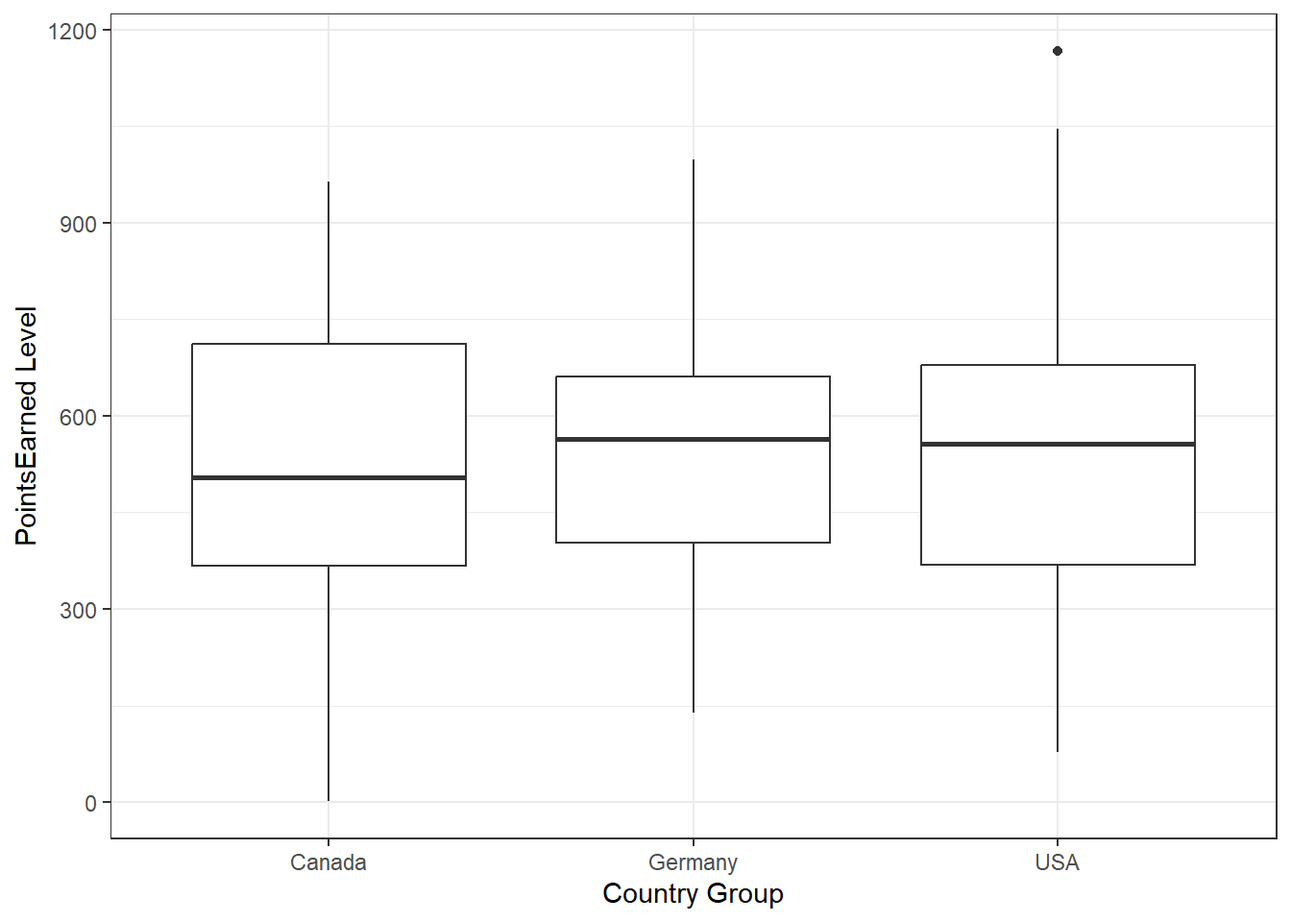
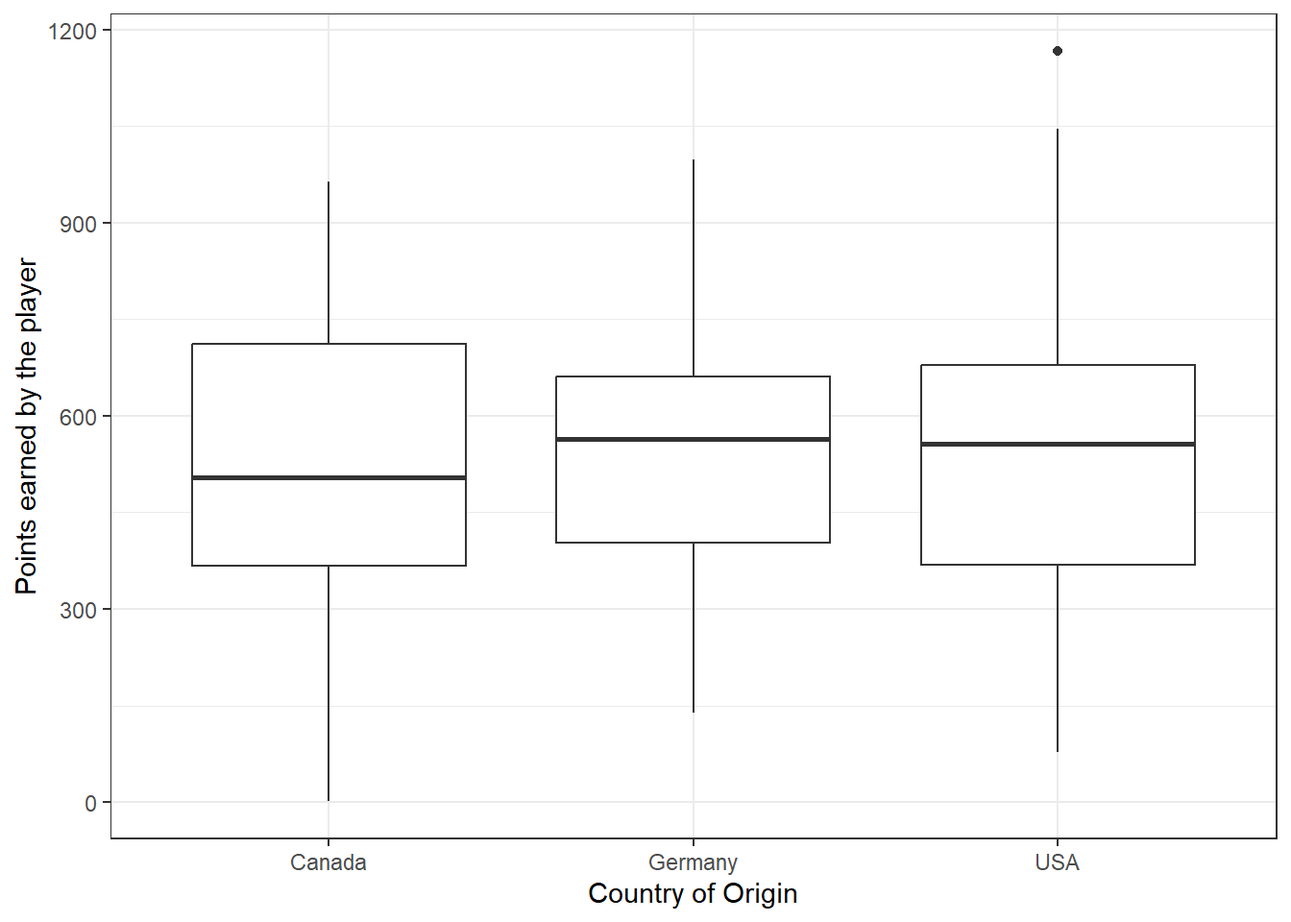
changes to Exercise 3

Changed region(s): [[0.0, 0.2812, 0.0312, 0.6562], [0.4688, 0.9375, 0.625, 1.0]]

diff --git a/docs/data-excercise/synthetic-data.html b/docs/data-excercise/synthetic-data.html
@@ -200,17 +200,28 @@ pre > code.sourceCode > span > a:first-child::before { text-decoration: underlin
 </header>
 
 
-<p>Placeholder file for the future R coding exercise.</p>
 <div style="page-break-after: always;"></div>
-<section id="data-aquisition" class="level1" data-number="1">
-<h1 data-number="1"><span class="header-section-number">1</span> Data Aquisition</h1>
-<p>In this section we will set the seed so that we can create reproducible data, and set the number of observations to 180.</p>
+<section id="introduction" class="level1" data-number="1">
+<h1 data-number="1"><span class="header-section-number">1</span> Introduction</h1>
+<p>In this excercise, I have chosen to create synthetic data and perform analysis based on it. I will be creating a dataset related to an online game “Soccer 101”.</p>
+<p>The dataset will contain information related to the country of origin of the player, age, play-time, points earned throughout the game, and the date when the online game account was created.The daataset will also include information on the Gender of the player and an indicator variable that explains whether the player has been nominated for the player of the year award or not.</p>
+<div style="page-break-after: always;"></div>
+</section>
+<section id="data-generation" class="level1" data-number="2">
+<h1 data-number="2"><span class="header-section-number">2</span> Data Generation</h1>
+<section id="setting-the-seeds-and-observation-number" class="level2" data-number="2.1">
+<h2 data-number="2.1" class="anchored" data-anchor-id="setting-the-seeds-and-observation-number"><span class="header-section-number">2.1</span> Setting the seeds and observation number</h2>
+<p>In this section we will create the baseline for generating our synthetic data. We will set the seed so that we can create reproducible data, and we will also set the number of observations to 180.</p>
 <div class="cell">
-<div class="sourceCode cell-code" id="cb1"><pre class="sourceCode r code-with-copy"><code class="sourceCode r"><span id="cb1-1"><a href="#cb1-1" aria-hidden="true" tabindex="-1"></a><span class="co"># Set a seed for reproducibility</span></span>
+<div class="sourceCode cell-code" id="cb1"><pre class="sourceCode r code-with-copy"><code class="sourceCode r"><span id="cb1-1"><a href="#cb1-1" aria-hidden="true" tabindex="-1"></a><span class="co"># Setting a seed for reproducibility of data</span></span>
 <span id="cb1-2"><a href="#cb1-2" aria-hidden="true" tabindex="-1"></a><span class="fu">set.seed</span>(<span class="dv">324</span>)</span>
-<span id="cb1-3"><a href="#cb1-3" aria-hidden="true" tabindex="-1"></a><span class="co"># Define the number of observations (patients) to generate</span></span>
+<span id="cb1-3"><a href="#cb1-3" aria-hidden="true" tabindex="-1"></a><span class="co"># Definining the number of observations (players) to generate</span></span>
 <span id="cb1-4"><a href="#cb1-4" aria-hidden="true" tabindex="-1"></a>n_obs <span class="ot">&lt;-</span> <span class="dv">180</span></span></code><button title="Copy to Clipboard" class="code-copy-button"><i class="bi"></i></button></pre></div>
 </div>
+<div style="page-break-after: always;"></div>
+</section>
+<section id="creating-an-empty-dataset" class="level2" data-number="2.2">
+<h2 data-number="2.2" class="anchored" data-anchor-id="creating-an-empty-dataset"><span class="header-section-number">2.2</span> Creating an empty Dataset</h2>
 <p>We will then create an empty dataset with just variable names and their data structure. We will make sure that every variable has the same number of obserations.</p>
 <div class="cell">
 <div class="sourceCode cell-code" id="cb2"><pre class="sourceCode r code-with-copy"><code class="sourceCode r"><span id="cb2-1"><a href="#cb2-1" aria-hidden="true" tabindex="-1"></a><span class="co"># Create an empty data frame with placeholders for variables</span></span>
@@ -228,64 +239,67 @@ pre > code.sourceCode > span > a:first-child::before { text-decoration: underlin
 <p>We can confirm that the new dataset “data” is formed successfully.</p>
 <div style="page-break-after: always;"></div>
 </section>
-<section id="data-cleaning" class="level1" data-number="2">
-<h1 data-number="2"><span class="header-section-number">2</span> Data Cleaning</h1>
-<p>Next, we will create the synthetic the data required for our excercise.</p>
+</section>
+<section id="data-cleaning" class="level1" data-number="3">
+<h1 data-number="3"><span class="header-section-number">3</span> Data Cleaning</h1>
+<p>Next, we will create the synthetic the data required for our excercise. We will try to control how the data is formed while we generate these data. All the variables will be generated with randomness except for: Points Earned <em>(This variable will be formed as a linear function of the variable play time as higher play time usually results in more control over the game and hence higher points)</em></p>
+<p>We will also make sure that the variable “Player of the Year (POTY) Nominee is independent of country of origin of the player as it makes no sense.</p>
 <div class="cell">
-<div class="sourceCode cell-code" id="cb3"><pre class="sourceCode r code-with-copy"><code class="sourceCode r"><span id="cb3-1"><a href="#cb3-1" aria-hidden="true" tabindex="-1"></a><span class="co"># Variable 1: Patient ID</span></span>
+<div class="sourceCode cell-code" id="cb3"><pre class="sourceCode r code-with-copy"><code class="sourceCode r"><span id="cb3-1"><a href="#cb3-1" aria-hidden="true" tabindex="-1"></a><span class="co"># Variable 1: userID (represents the online userID of the player)</span></span>
 <span id="cb3-2"><a href="#cb3-2" aria-hidden="true" tabindex="-1"></a>data<span class="sc">$</span>userID <span class="ot">&lt;-</span> <span class="dv">1</span><span class="sc">:</span>n_obs</span>
 <span id="cb3-3"><a href="#cb3-3" aria-hidden="true" tabindex="-1"></a></span>
-<span id="cb3-4"><a href="#cb3-4" aria-hidden="true" tabindex="-1"></a><span class="co"># Variable 2: Age (numeric variable)</span></span>
+<span id="cb3-4"><a href="#cb3-4" aria-hidden="true" tabindex="-1"></a><span class="co"># Variable 2: Age of the player (coded as numeric variable)</span></span>
 <span id="cb3-5"><a href="#cb3-5" aria-hidden="true" tabindex="-1"></a>data<span class="sc">$</span>Age <span class="ot">&lt;-</span> <span class="fu">round</span>(<span class="fu">rnorm</span>(n_obs, <span class="at">mean =</span> <span class="dv">23</span>, <span class="at">sd =</span> <span class="dv">5</span>), <span class="dv">1</span>)</span>
 <span id="cb3-6"><a href="#cb3-6" aria-hidden="true" tabindex="-1"></a></span>
-<span id="cb3-7"><a href="#cb3-7" aria-hidden="true" tabindex="-1"></a><span class="co"># Variable 3: Gender (categorical variable)</span></span>
+<span id="cb3-7"><a href="#cb3-7" aria-hidden="true" tabindex="-1"></a><span class="co"># Variable 3: Gender of the player (coded as categorical variable)</span></span>
 <span id="cb3-8"><a href="#cb3-8" aria-hidden="true" tabindex="-1"></a>data<span class="sc">$</span>Gender <span class="ot">&lt;-</span> purrr<span class="sc">::</span><span class="fu">map_chr</span>(<span class="fu">sample</span>(<span class="fu">c</span>(<span class="st">"Male"</span>, <span class="st">"Female"</span>), n_obs, <span class="at">replace =</span> <span class="cn">TRUE</span>), as.character)</span>
 <span id="cb3-9"><a href="#cb3-9" aria-hidden="true" tabindex="-1"></a></span>
-<span id="cb3-10"><a href="#cb3-10" aria-hidden="true" tabindex="-1"></a><span class="co"># Variable 4: Country Group (categorical variable)</span></span>
+<span id="cb3-10"><a href="#cb3-10" aria-hidden="true" tabindex="-1"></a><span class="co"># Variable 4: Country of origin (coded as categorical variable)</span></span>
 <span id="cb3-11"><a href="#cb3-11" aria-hidden="true" tabindex="-1"></a>data<span class="sc">$</span>Country <span class="ot">&lt;-</span> purrr<span class="sc">::</span><span class="fu">map_chr</span>(<span class="fu">sample</span>(<span class="fu">c</span>(<span class="st">"USA"</span>, <span class="st">"Canada"</span>, <span class="st">"Germany"</span>), n_obs, <span class="at">replace =</span> <span class="cn">TRUE</span>), as.character)</span>
 <span id="cb3-12"><a href="#cb3-12" aria-hidden="true" tabindex="-1"></a></span>
-<span id="cb3-13"><a href="#cb3-13" aria-hidden="true" tabindex="-1"></a><span class="co"># Variable 5: Date of Enrollment (date variable)</span></span>
+<span id="cb3-13"><a href="#cb3-13" aria-hidden="true" tabindex="-1"></a><span class="co"># Variable 5: Date of Installation (coded as date variable)</span></span>
 <span id="cb3-14"><a href="#cb3-14" aria-hidden="true" tabindex="-1"></a>data<span class="sc">$</span>InstallationDate <span class="ot">&lt;-</span> lubridate<span class="sc">::</span><span class="fu">as_date</span>(<span class="fu">sample</span>(<span class="fu">seq</span>(<span class="at">from =</span> lubridate<span class="sc">::</span><span class="fu">as_date</span>(<span class="st">"2022-01-01"</span>), <span class="at">to =</span> lubridate<span class="sc">::</span><span class="fu">as_date</span>(<span class="st">"2024-12-31"</span>), <span class="at">by =</span> <span class="st">"days"</span>), n_obs, <span class="at">replace =</span> <span class="cn">TRUE</span>))</span>
 <span id="cb3-15"><a href="#cb3-15" aria-hidden="true" tabindex="-1"></a></span>
-<span id="cb3-16"><a href="#cb3-16" aria-hidden="true" tabindex="-1"></a><span class="co"># Variable 6: Play time (numeric variable)</span></span>
+<span id="cb3-16"><a href="#cb3-16" aria-hidden="true" tabindex="-1"></a><span class="co"># Variable 6: PlayTime (coded as numeric variable)</span></span>
 <span id="cb3-17"><a href="#cb3-17" aria-hidden="true" tabindex="-1"></a>data<span class="sc">$</span>PlayTime <span class="ot">&lt;-</span> <span class="fu">round</span>(<span class="fu">runif</span>(n_obs, <span class="at">min =</span> <span class="dv">40</span>, <span class="at">max =</span> <span class="dv">160</span>), <span class="dv">1</span>)</span>
 <span id="cb3-18"><a href="#cb3-18" aria-hidden="true" tabindex="-1"></a></span>
-<span id="cb3-19"><a href="#cb3-19" aria-hidden="true" tabindex="-1"></a><span class="co"># Variable 7: PointsEarned  (numeric variable)</span></span>
-<span id="cb3-20"><a href="#cb3-20" aria-hidden="true" tabindex="-1"></a><span class="co"># PointsEarned is dependent on PlayTime</span></span>
-<span id="cb3-21"><a href="#cb3-21" aria-hidden="true" tabindex="-1"></a><span class="co"># Define coefficients for the linear function</span></span>
-<span id="cb3-22"><a href="#cb3-22" aria-hidden="true" tabindex="-1"></a>beta_0 <span class="ot">&lt;-</span> <span class="dv">50</span>  <span class="co"># Intercept</span></span>
-<span id="cb3-23"><a href="#cb3-23" aria-hidden="true" tabindex="-1"></a>beta_1 <span class="ot">&lt;-</span> <span class="dv">5</span>   <span class="co"># Slope</span></span>
+<span id="cb3-19"><a href="#cb3-19" aria-hidden="true" tabindex="-1"></a><span class="co"># Variable 7: PointsEarned  ( coded as numeric variable)</span></span>
+<span id="cb3-20"><a href="#cb3-20" aria-hidden="true" tabindex="-1"></a><span class="co"># PointsEarned will be kept dependent on PlayTime through a linear function</span></span>
+<span id="cb3-21"><a href="#cb3-21" aria-hidden="true" tabindex="-1"></a></span>
+<span id="cb3-22"><a href="#cb3-22" aria-hidden="true" tabindex="-1"></a>beta_0 <span class="ot">&lt;-</span> <span class="dv">50</span>  <span class="co"># Defining coefficient for the linear function (Intercept)</span></span>
+<span id="cb3-23"><a href="#cb3-23" aria-hidden="true" tabindex="-1"></a>beta_1 <span class="ot">&lt;-</span> <span class="dv">5</span>   <span class="co"># Defining coefficient for the linear function (Slope)</span></span>
 <span id="cb3-24"><a href="#cb3-24" aria-hidden="true" tabindex="-1"></a></span>
-<span id="cb3-25"><a href="#cb3-25" aria-hidden="true" tabindex="-1"></a><span class="co"># Generate PointsEarned based on PlayTime with some randomness</span></span>
+<span id="cb3-25"><a href="#cb3-25" aria-hidden="true" tabindex="-1"></a><span class="co"># Generating PointsEarned based on PlayTime with some randomness</span></span>
 <span id="cb3-26"><a href="#cb3-26" aria-hidden="true" tabindex="-1"></a>data<span class="sc">$</span>PointsEarned <span class="ot">&lt;-</span> <span class="fu">round</span>(beta_0 <span class="sc">+</span> beta_1 <span class="sc">*</span> data<span class="sc">$</span>PlayTime <span class="sc">+</span> <span class="fu">rnorm</span>(<span class="fu">nrow</span>(data), <span class="at">mean =</span> <span class="dv">0</span>, <span class="at">sd =</span> <span class="dv">130</span>), <span class="dv">1</span>)</span>
 <span id="cb3-27"><a href="#cb3-27" aria-hidden="true" tabindex="-1"></a></span>
 <span id="cb3-28"><a href="#cb3-28" aria-hidden="true" tabindex="-1"></a></span>
 <span id="cb3-29"><a href="#cb3-29" aria-hidden="true" tabindex="-1"></a><span class="co"># Variable 8: Player of the Year Nominee (binary variable, 0 = No, 1 = Yes)</span></span>
-<span id="cb3-30"><a href="#cb3-30" aria-hidden="true" tabindex="-1"></a><span class="co"># Option 1: Player of the Year Nominees are independent of Country</span></span>
+<span id="cb3-30"><a href="#cb3-30" aria-hidden="true" tabindex="-1"></a><span class="co"># Option 1: Player of the Year Nominees are independent of Country of origin</span></span>
 <span id="cb3-31"><a href="#cb3-31" aria-hidden="true" tabindex="-1"></a>data<span class="sc">$</span>POTY <span class="ot">&lt;-</span> purrr<span class="sc">::</span><span class="fu">map_int</span>(<span class="fu">sample</span>(<span class="dv">0</span><span class="sc">:</span><span class="dv">1</span>, n_obs, <span class="at">replace =</span> <span class="cn">TRUE</span>, <span class="at">prob =</span> <span class="fu">c</span>(<span class="fl">0.8</span>, <span class="fl">0.2</span>)), as.integer)</span></code><button title="Copy to Clipboard" class="code-copy-button"><i class="bi"></i></button></pre></div>
 </div>
-<section id="saving-new-dataset" class="level2" data-number="2.1">
-<h2 data-number="2.1" class="anchored" data-anchor-id="saving-new-dataset"><span class="header-section-number">2.1</span> Saving new dataset:</h2>
+<div style="page-break-after: always;"></div>
+</section>
+<section id="saving-new-dataset" class="level1" data-number="4">
+<h1 data-number="4"><span class="header-section-number">4</span> Saving new dataset:</h1>
 <div class="cell">
-<div class="sourceCode cell-code" id="cb4"><pre class="sourceCode r code-with-copy"><code class="sourceCode r"><span id="cb4-1"><a href="#cb4-1" aria-hidden="true" tabindex="-1"></a><span class="co"># Save the simulated data to a CSV and Rds file</span></span>
+<div class="sourceCode cell-code" id="cb4"><pre class="sourceCode r code-with-copy"><code class="sourceCode r"><span id="cb4-1"><a href="#cb4-1" aria-hidden="true" tabindex="-1"></a><span class="co"># Saving the simulated data to a CSV file</span></span>
 <span id="cb4-2"><a href="#cb4-2" aria-hidden="true" tabindex="-1"></a><span class="fu">write.csv</span>(data, <span class="fu">here</span>(<span class="st">"data-excercise"</span>,<span class="st">"data"</span>,<span class="st">"data.csv"</span>), <span class="at">row.names =</span> <span class="cn">FALSE</span>)</span>
-<span id="cb4-3"><a href="#cb4-3" aria-hidden="true" tabindex="-1"></a><span class="co"># if we wanted an RDS version</span></span>
+<span id="cb4-3"><a href="#cb4-3" aria-hidden="true" tabindex="-1"></a><span class="co"># Saving as Rds is optional and we wont trigger that option for now.</span></span>
 <span id="cb4-4"><a href="#cb4-4" aria-hidden="true" tabindex="-1"></a><span class="co">#saveRDS(data, here("data-excercise", "data","data.Rds"))</span></span></code><button title="Copy to Clipboard" class="code-copy-button"><i class="bi"></i></button></pre></div>
 </div>
 <div style="page-break-after: always;"></div>
 </section>
-</section>
-<section id="data-visualization" class="level1" data-number="3">
-<h1 data-number="3"><span class="header-section-number">3</span> Data Visualization</h1>
+<section id="data-visualization" class="level1" data-number="5">
+<h1 data-number="5"><span class="header-section-number">5</span> Data Visualization</h1>
 <p>We will now visualize the data using multiple figures.</p>
-<section id="figure1-scatterplot-of-life-expectancy-vs-infant-mortality" class="level2" data-number="3.1">
-<h2 data-number="3.1" class="anchored" data-anchor-id="figure1-scatterplot-of-life-expectancy-vs-infant-mortality"><span class="header-section-number">3.1</span> Figure1: Scatterplot of Life Expectancy vs Infant Mortality</h2>
-<p>We observe that the life expectancy is going down as the infant mortality increases for the country, this could be because the health infrastructure that is unable to provide support to infant population might also not be able to support the general population. The streaks of data represent individual countries, most of the streaks seem to be heading downwards, and the overall tendency is also downwards implying negative correlation.</p>
+<section id="figure1-boxplot-of-country-vs-points-earned" class="level2" data-number="5.1">
+<h2 data-number="5.1" class="anchored" data-anchor-id="figure1-boxplot-of-country-vs-points-earned"><span class="header-section-number">5.1</span> Figure1: Boxplot of Country vs Points Earned</h2>
+<p>We observe that there is no statistical difference across countries for points earned as we created these variables with randoness. All countries seem to have the mean in the same range with different variation within the data.</p>
 <div class="cell">
 <div class="sourceCode cell-code" id="cb5"><pre class="sourceCode r code-with-copy"><code class="sourceCode r"><span id="cb5-1"><a href="#cb5-1" aria-hidden="true" tabindex="-1"></a><span class="co"># ggplot2 boxplot for PointsEarned by Country group</span></span>
 <span id="cb5-2"><a href="#cb5-2" aria-hidden="true" tabindex="-1"></a><span class="fu">ggplot</span>(data, <span class="fu">aes</span>(<span class="at">x =</span> Country, <span class="at">y =</span> PointsEarned)) <span class="sc">+</span></span>
 <span id="cb5-3"><a href="#cb5-3" aria-hidden="true" tabindex="-1"></a>  <span class="fu">geom_boxplot</span>() <span class="sc">+</span></span>
-<span id="cb5-4"><a href="#cb5-4" aria-hidden="true" tabindex="-1"></a>  <span class="fu">labs</span>(<span class="at">x =</span> <span class="st">"Country Group"</span>, <span class="at">y =</span> <span class="st">"PointsEarned Level"</span>) <span class="sc">+</span></span>
+<span id="cb5-4"><a href="#cb5-4" aria-hidden="true" tabindex="-1"></a>  <span class="fu">labs</span>(<span class="at">x =</span> <span class="st">"Country of Origin"</span>, <span class="at">y =</span> <span class="st">"Points earned by the player"</span>) <span class="sc">+</span></span>
 <span id="cb5-5"><a href="#cb5-5" aria-hidden="true" tabindex="-1"></a>  <span class="fu">theme_bw</span>()</span></code><button title="Copy to Clipboard" class="code-copy-button"><i class="bi"></i></button></pre></div>
 <div class="cell-output-display">
 <div>
@@ -295,11 +309,15 @@ pre > code.sourceCode > span > a:first-child::before { text-decoration: underlin
 </div>
 </div>
 </div>
+</section>
+<section id="figure2-boxplot-of-gender-vs-points-earned" class="level2" data-number="5.2">
+<h2 data-number="5.2" class="anchored" data-anchor-id="figure2-boxplot-of-gender-vs-points-earned"><span class="header-section-number">5.2</span> Figure2: Boxplot of Gender vs Points Earned</h2>
+<p>We can again observe that there is no statistical difference across Gender for points earned as we created these variables with randoness as well. Both male and female seem to have the mean in the same range with different variation within the group.</p>
 <div class="cell">
 <div class="sourceCode cell-code" id="cb6"><pre class="sourceCode r code-with-copy"><code class="sourceCode r"><span id="cb6-1"><a href="#cb6-1" aria-hidden="true" tabindex="-1"></a><span class="co"># ggplot2 boxplot for PointsEarned by Country group</span></span>
 <span id="cb6-2"><a href="#cb6-2" aria-hidden="true" tabindex="-1"></a><span class="fu">ggplot</span>(data, <span class="fu">aes</span>(<span class="at">x =</span> Gender, <span class="at">y =</span> PointsEarned)) <span class="sc">+</span></span>
 <span id="cb6-3"><a href="#cb6-3" aria-hidden="true" tabindex="-1"></a>  <span class="fu">geom_boxplot</span>() <span class="sc">+</span></span>
-<span id="cb6-4"><a href="#cb6-4" aria-hidden="true" tabindex="-1"></a>  <span class="fu">labs</span>(<span class="at">x =</span> <span class="st">"Country Group"</span>, <span class="at">y =</span> <span class="st">"PointsEarned Level"</span>) <span class="sc">+</span></span>
+<span id="cb6-4"><a href="#cb6-4" aria-hidden="true" tabindex="-1"></a>  <span class="fu">labs</span>(<span class="at">x =</span> <span class="st">"Gender"</span>, <span class="at">y =</span> <span class="st">"Points earned by the player"</span>) <span class="sc">+</span></span>
 <span id="cb6-5"><a href="#cb6-5" aria-hidden="true" tabindex="-1"></a>  <span class="fu">theme_bw</span>()</span></code><button title="Copy to Clipboard" class="code-copy-button"><i class="bi"></i></button></pre></div>
 <div class="cell-output-display">
 <div>
@@ -310,11 +328,11 @@ pre > code.sourceCode > span > a:first-child::before { text-decoration: underlin
 </div>
 </div>
 </section>
-<section id="figure-2-scatterplot-of-life-expectancy-vs-population-size" class="level2" data-number="3.2">
-<h2 data-number="3.2" class="anchored" data-anchor-id="figure-2-scatterplot-of-life-expectancy-vs-population-size"><span class="header-section-number">3.2</span> Figure 2: Scatterplot of Life Expectancy vs Population Size</h2>
-<p>We observe the life expectancy is going up as the country is more populated, this could be because more populated countries in Africa are more developed in health sectors and able to prove health support. The streaks of data represent individual countries, most of the streaks seem to be heading upwards, and the overall tendency is also upwards implying positive correlation.</p>
+<section id="figure-3-scatterplot-of-life-expectancy-vs-population-size" class="level2" data-number="5.3">
+<h2 data-number="5.3" class="anchored" data-anchor-id="figure-3-scatterplot-of-life-expectancy-vs-population-size"><span class="header-section-number">5.3</span> Figure 3: Scatterplot of Life Expectancy vs Population Size</h2>
+<p>We observe the points earned by the player is going up as the playing time is increasing, this is because we have created the data to follow this pattern. As we set the slope to a positive 5, the data has been generated with a positive correlation.</p>
 <div class="cell">
-<div class="sourceCode cell-code" id="cb7"><pre class="sourceCode r code-with-copy"><code class="sourceCode r"><span id="cb7-1"><a href="#cb7-1" aria-hidden="true" tabindex="-1"></a><span class="co"># Create scatterplot with regression line</span></span>
+<div class="sourceCode cell-code" id="cb7"><pre class="sourceCode r code-with-copy"><code class="sourceCode r"><span id="cb7-1"><a href="#cb7-1" aria-hidden="true" tabindex="-1"></a><span class="co"># Create scatterplot with a red regression line</span></span>
 <span id="cb7-2"><a href="#cb7-2" aria-hidden="true" tabindex="-1"></a><span class="fu">ggplot</span>(data, <span class="fu">aes</span>(<span class="at">x =</span> PlayTime, <span class="at">y =</span> PointsEarned)) <span class="sc">+</span> <span class="co">#setting variables to different axis</span></span>
 <span id="cb7-3"><a href="#cb7-3" aria-hidden="true" tabindex="-1"></a>  <span class="fu">geom_point</span>(<span class="at">color =</span> <span class="st">"darkgreen"</span>, <span class="at">alpha =</span> <span class="fl">0.7</span>) <span class="sc">+</span> <span class="fu">geom_smooth</span>(<span class="at">method =</span> <span class="st">"lm"</span>, <span class="at">color =</span> <span class="st">"red"</span>, <span class="at">se =</span> <span class="cn">FALSE</span>) <span class="sc">+</span></span>
 <span id="cb7-4"><a href="#cb7-4" aria-hidden="true" tabindex="-1"></a><span class="fu">labs</span>(</span>
@@ -334,8 +352,12 @@ pre > code.sourceCode > span > a:first-child::before { text-decoration: underlin
 </div>
 </div>
 </div>
+</section>
+<section id="table-1-fitting-a-linear-model-to-test-the-results-in-figure-3" class="level2" data-number="5.4">
+<h2 data-number="5.4" class="anchored" data-anchor-id="table-1-fitting-a-linear-model-to-test-the-results-in-figure-3"><span class="header-section-number">5.4</span> Table 1: Fitting a linear model to test the results in Figure 3</h2>
+<p>We will fit a linear regression model with the same x and y variable to see the statistical result and slope.</p>
 <div class="cell">
-<div class="sourceCode cell-code" id="cb9"><pre class="sourceCode r code-with-copy"><code class="sourceCode r"><span id="cb9-1"><a href="#cb9-1" aria-hidden="true" tabindex="-1"></a><span class="co"># Fit the linear model</span></span>
+<div class="sourceCode cell-code" id="cb9"><pre class="sourceCode r code-with-copy"><code class="sourceCode r"><span id="cb9-1"><a href="#cb9-1" aria-hidden="true" tabindex="-1"></a><span class="co"># Fitting the linear model</span></span>
 <span id="cb9-2"><a href="#cb9-2" aria-hidden="true" tabindex="-1"></a>fit1 <span class="ot">&lt;-</span> <span class="fu">lm</span>(PointsEarned <span class="sc">~</span> PlayTime, <span class="at">data =</span> data) <span class="co"># fit1 is a model with Age as predictor</span></span>
 <span id="cb9-3"><a href="#cb9-3" aria-hidden="true" tabindex="-1"></a><span class="fu">summary</span>(fit1)</span></code><button title="Copy to Clipboard" class="code-copy-button"><i class="bi"></i></button></pre></div>
 <div class="cell-output cell-output-stdout">
@@ -359,14 +381,19 @@ Multiple R-squared:  0.6181,    Adjusted R-squared:  0.6159
 F-statistic:   288 on 1 and 178 DF,  p-value: &lt; 2.2e-16</code></pre>
 </div>
 </div>
+<p>As we can see the coefficient (+4), which is statistically significant, is around the slope we first set (+5). The data has been generated as per our direction.</p>
+</section>
+<section id="figure-4-scatterplot-of-life-expectancy-vs-population-size" class="level2" data-number="5.5">
+<h2 data-number="5.5" class="anchored" data-anchor-id="figure-4-scatterplot-of-life-expectancy-vs-population-size"><span class="header-section-number">5.5</span> Figure 4: Scatterplot of Life Expectancy vs Population Size</h2>
+<p>We can observe that the points earned by the player is showing no relation with the playing time, this is because we did not set any relation between these variables and they were generated with randomness.</p>
 <div class="cell">
-<div class="sourceCode cell-code" id="cb11"><pre class="sourceCode r code-with-copy"><code class="sourceCode r"><span id="cb11-1"><a href="#cb11-1" aria-hidden="true" tabindex="-1"></a><span class="co"># Create scatterplot with regression line</span></span>
+<div class="sourceCode cell-code" id="cb11"><pre class="sourceCode r code-with-copy"><code class="sourceCode r"><span id="cb11-1"><a href="#cb11-1" aria-hidden="true" tabindex="-1"></a><span class="co"># Creating scatterplot</span></span>
 <span id="cb11-2"><a href="#cb11-2" aria-hidden="true" tabindex="-1"></a><span class="fu">ggplot</span>(data, <span class="fu">aes</span>(<span class="at">x =</span> Age, <span class="at">y =</span> PointsEarned)) <span class="sc">+</span> <span class="co">#setting variables to different axis</span></span>
 <span id="cb11-3"><a href="#cb11-3" aria-hidden="true" tabindex="-1"></a>  <span class="fu">geom_point</span>(<span class="at">color =</span> <span class="st">"darkgreen"</span>, <span class="at">alpha =</span> <span class="fl">0.7</span>) <span class="sc">+</span></span>
 <span id="cb11-4"><a href="#cb11-4" aria-hidden="true" tabindex="-1"></a><span class="fu">labs</span>(</span>
 <span id="cb11-5"><a href="#cb11-5" aria-hidden="true" tabindex="-1"></a>    <span class="at">title =</span> <span class="st">"Scatterplot of Play Time vs Points Earned"</span>, <span class="co"># giving a title to the figure</span></span>
 <span id="cb11-6"><a href="#cb11-6" aria-hidden="true" tabindex="-1"></a>    <span class="at">x =</span> <span class="st">"Age of the player"</span>, <span class="co">#labeling the axis</span></span>
-<span id="cb11-7"><a href="#cb11-7" aria-hidden="true" tabindex="-1"></a>    <span class="at">y =</span> <span class="st">"Points earned"</span> <span class="co">#labeling the axis</span></span>
+<span id="cb11-7"><a href="#cb11-7" aria-hidden="true" tabindex="-1"></a>    <span class="at">y =</span> <span class="st">"Points earned by the player"</span> <span class="co">#labeling the axis</span></span>
 <span id="cb11-8"><a href="#cb11-8" aria-hidden="true" tabindex="-1"></a>  ) <span class="sc">+</span></span>
 <span id="cb11-9"><a href="#cb11-9" aria-hidden="true" tabindex="-1"></a>  <span class="fu">theme_minimal</span>()</span></code><button title="Copy to Clipboard" class="code-copy-button"><i class="bi"></i></button></pre></div>
 <div class="cell-output-display">
@@ -377,10 +404,14 @@ F-statistic:   288 on 1 and 178 DF,  p-value: &lt; 2.2e-16</code></pre>
 </div>
 </div>
 </div>
+</section>
+<section id="table-1-fitting-a-linear-model-to-test-the-results-in-figure-4" class="level2" data-number="5.6">
+<h2 data-number="5.6" class="anchored" data-anchor-id="table-1-fitting-a-linear-model-to-test-the-results-in-figure-4"><span class="header-section-number">5.6</span> Table 1: Fitting a linear model to test the results in Figure 4</h2>
+<p>We will fit a linear regression model with the same x and y variable to see the statistical result and slope.</p>
 <div class="cell">
 <div class="sourceCode cell-code" id="cb12"><pre class="sourceCode r code-with-copy"><code class="sourceCode r"><span id="cb12-1"><a href="#cb12-1" aria-hidden="true" tabindex="-1"></a><span class="co"># Fit the linear model</span></span>
-<span id="cb12-2"><a href="#cb12-2" aria-hidden="true" tabindex="-1"></a>fit1 <span class="ot">&lt;-</span> <span class="fu">lm</span>(PointsEarned <span class="sc">~</span> Age, <span class="at">data =</span> data) <span class="co"># fit1 is a model with Age as predictor</span></span>
-<span id="cb12-3"><a href="#cb12-3" aria-hidden="true" tabindex="-1"></a><span class="fu">summary</span>(fit1)</span></code><button title="Copy to Clipboard" class="code-copy-button"><i class="bi"></i></button></pre></div>
+<span id="cb12-2"><a href="#cb12-2" aria-hidden="true" tabindex="-1"></a>fit2 <span class="ot">&lt;-</span> <span class="fu">lm</span>(PointsEarned <span class="sc">~</span> Age, <span class="at">data =</span> data) <span class="co"># fit1 is a model with Age as predictor</span></span>
+<span id="cb12-3"><a href="#cb12-3" aria-hidden="true" tabindex="-1"></a><span class="fu">summary</span>(fit2)</span></code><button title="Copy to Clipboard" class="code-copy-button"><i class="bi"></i></button></pre></div>
 <div class="cell-output cell-output-stdout">
 <pre><code>
 Call:
@@ -402,8 +433,13 @@ Multiple R-squared:  0.0008613, Adjusted R-squared:  -0.004752
 F-statistic: 0.1534 on 1 and 178 DF,  p-value: 0.6957</code></pre>
 </div>
 </div>
+<p>We can confirm that the relation between Age and Points earned is not statistically significant.</p>
+</section>
+<section id="table-3-fitting-a-probit-model-for-player-of-the-year-nomination" class="level2" data-number="5.7">
+<h2 data-number="5.7" class="anchored" data-anchor-id="table-3-fitting-a-probit-model-for-player-of-the-year-nomination"><span class="header-section-number">5.7</span> Table 3: Fitting a Probit model for Player of the Year Nomination</h2>
+<p>We will fit a probit regression model with Age, Playtime and Country as predictors to see if they influence the outcome of the POTY variable.As we have not set such relation between them, they should show no relation among them.</p>
 <div class="cell">
-<div class="sourceCode cell-code" id="cb14"><pre class="sourceCode r code-with-copy"><code class="sourceCode r"><span id="cb14-1"><a href="#cb14-1" aria-hidden="true" tabindex="-1"></a><span class="co"># Fit the linear model</span></span>
+<div class="sourceCode cell-code" id="cb14"><pre class="sourceCode r code-with-copy"><code class="sourceCode r"><span id="cb14-1"><a href="#cb14-1" aria-hidden="true" tabindex="-1"></a><span class="co"># Fitting the probit model</span></span>
 <span id="cb14-2"><a href="#cb14-2" aria-hidden="true" tabindex="-1"></a>fit3 <span class="ot">&lt;-</span> <span class="fu">glm</span>(POTY <span class="sc">~</span> Age <span class="sc">+</span> PlayTime <span class="sc">+</span> Country, <span class="at">family =</span> <span class="fu">binomial</span>(<span class="at">link =</span> <span class="st">"probit"</span>), <span class="at">data =</span> data) <span class="co"># fit1 is a model with Age as predictor</span></span>
 <span id="cb14-3"><a href="#cb14-3" aria-hidden="true" tabindex="-1"></a><span class="fu">summary</span>(fit3)</span></code><button title="Copy to Clipboard" class="code-copy-button"><i class="bi"></i></button></pre></div>
 <div class="cell-output cell-output-stdout">
@@ -429,6 +465,7 @@ AIC: 156.57
 Number of Fisher Scoring iterations: 5</code></pre>
 </div>
 </div>
+<p>We can verify from the results above that there is no such relation among the variables.</p>
 
 
 </section>
